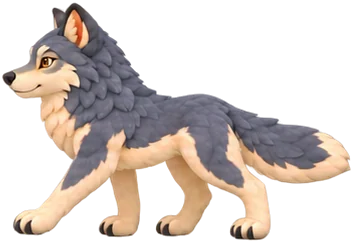
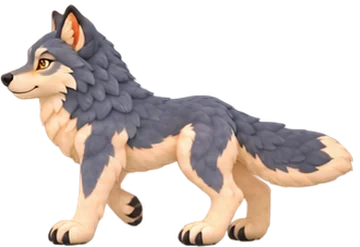
style: плавный шаг волка и читаемый текст на закате (HZ-02b)
- Волк шагает циклом из 6 кадров, кадры выровнены по носу и лапам;
  прыжок на скалу и обратно — отдельная поза.
- Цвет текста и подписей кнопок при смене темы переключается быстро около
  середины перехода: надписи больше не сливаются с фоном посреди заката.

Changed region(s): [[0.0, 0.0, 0.9972, 1.0], [0.8725, 0.6626, 0.9037, 0.6914]]

diff --git a/apps/mobile/src/features/onboarding/world/Wolf.tsx b/apps/mobile/src/features/onboarding/world/Wolf.tsx
@@ -39,11 +39,22 @@ export function wolfStage(width: number, groundY: number) {
   };
 }
 
-// NOTE: Коды поз для расчётов на UI-потоке: 0 идёт, 1 сидит, 2 воет, 3 спит.
+// NOTE: Коды поз для расчётов на UI-потоке: 0 идёт, 1 сидит, 2 воет, 3 спит, 4 прыгает.
 const WALK = 0;
 const SIT = 1;
 const HOWL = 2;
 const SLEEP = 3;
+const JUMP = 4;
+// NOTE: Цикл шага из 6 кадров; 9 кадров в секунду — спокойный шаг, без мельтешения.
+const WALK_FRAMES = [
+  art.wolfWalk0,
+  art.wolfWalk1,
+  art.wolfWalk2,
+  art.wolfWalk3,
+  art.wolfWalk4,
+  art.wolfWalk5,
+] as const;
+const WALK_FPS = 9;
 
 interface Step {
   readonly pose: number;
@@ -63,13 +74,13 @@ interface Step {
  */
 const STORY: readonly Step[] = [
   { pose: WALK, ms: 3800, to: 'base', fade: 'in' },
-  { pose: WALK, ms: 650, to: 'top', jump: true },
+  { pose: JUMP, ms: 650, to: 'top', jump: true },
   { pose: SIT, ms: 2600 },
   { pose: HOWL, ms: 3400, howl: true },
   { pose: SIT, ms: 1700 },
   { pose: SLEEP, ms: 9500 },
   { pose: SIT, ms: 1900 },
-  { pose: WALK, ms: 650, to: 'base', jump: true, facingRight: true },
+  { pose: JUMP, ms: 650, to: 'base', jump: true, facingRight: true },
   { pose: WALK, ms: 4200, to: 'exit', fade: 'out', facingRight: true },
   { pose: SIT, ms: 7000, fade: 'out' },
 ];
@@ -160,7 +171,7 @@ export function Wolf() {
     howl,
   ]);
 
-  const scale = stage.wolfHeight / art.wolfWalk1.height;
+  const scale = stage.wolfHeight / art.wolfWalk0.height;
   const containerStyle = useAnimatedStyle(() => {
     const walking = pose.value === WALK;
     const bob = walking ? -Math.abs(Math.sin(time.value * 9)) * stage.wolfHeight * 0.03 : 0;
@@ -171,8 +182,10 @@ export function Wolf() {
   });
   return (
     <Animated.View pointerEvents="none" testID="world-wolf" style={[styles.anchor, containerStyle]}>
-      <PoseSprite image={art.wolfWalk1} scale={scale} pose={pose} code={WALK} frame={0} />
-      <PoseSprite image={art.wolfWalk2} scale={scale} pose={pose} code={WALK} frame={1} />
+      {WALK_FRAMES.map((image, frame) => (
+        <PoseSprite key={frame} image={image} scale={scale} pose={pose} code={WALK} frame={frame} />
+      ))}
+      <PoseSprite image={art.wolfJump} scale={scale} pose={pose} code={JUMP} />
       <PoseSprite image={art.wolfSit} scale={scale} pose={pose} code={SIT} />
       <PoseSprite image={art.wolfHowl} scale={scale} pose={pose} code={HOWL} />
       <PoseSprite image={art.wolfSleep} scale={scale} pose={pose} code={SLEEP} />
@@ -199,8 +212,9 @@ function PoseSprite({
   const h = image.height * scale;
   const style = useAnimatedStyle(() => {
     let shown = pose.value === code;
-    // NOTE: Два кадра шага сменяют друг друга — получается походка.
-    if (shown && frame !== undefined) shown = Math.floor(time.value * 4.2) % 2 === frame;
+    // NOTE: Шесть кадров шага сменяют друг друга по кругу — получается плавная походка.
+    if (shown && frame !== undefined)
+      shown = Math.floor(time.value * WALK_FPS) % WALK_FRAMES.length === frame;
     // NOTE: Спящий волк медленно дышит.
     const breath = code === SLEEP ? 1 + Math.sin(time.value * 1.5) * 0.025 : 1;
     return { opacity: shown ? 1 : 0, transform: [{ scaleY: breath }] };
@@ -211,7 +225,7 @@ function PoseSprite({
       style={[
         {
           position: 'absolute',
-          left: -w / 2,
+          left: frame !== undefined ? -w * 0.42 : -w / 2,
           top: -h,
           width: w,
           height: h,

diff --git a/apps/mobile/src/features/onboarding/world/art.ts b/apps/mobile/src/features/onboarding/world/art.ts
@@ -20,8 +20,6 @@ import reeds from '../../../../assets/onboarding/reeds.webp';
 import cloud1 from '../../../../assets/onboarding/cloud_1.webp';
 import cloud2 from '../../../../assets/onboarding/cloud_2.webp';
 import cloud3 from '../../../../assets/onboarding/cloud_3.webp';
-import wolfWalk1 from '../../../../assets/onboarding/wolf_walk_1.webp';
-import wolfWalk2 from '../../../../assets/onboarding/wolf_walk_2.webp';
 import wolfSit from '../../../../assets/onboarding/wolf_sit.webp';
 import wolfHowl from '../../../../assets/onboarding/wolf_howl.webp';
 import wolfSleep from '../../../../assets/onboarding/wolf_sleep.webp';
@@ -30,6 +28,13 @@ import butterfly2 from '../../../../assets/onboarding/butterfly_2.webp';
 import leafGreen from '../../../../assets/onboarding/leaf_green.webp';
 import leafOrange from '../../../../assets/onboarding/leaf_orange.webp';
 import seed from '../../../../assets/onboarding/seed.webp';
+import wolfWalk0 from '../../../../assets/onboarding/wolf_walk_0.webp';
+import wolfWalk1 from '../../../../assets/onboarding/wolf_walk_1.webp';
+import wolfWalk2 from '../../../../assets/onboarding/wolf_walk_2.webp';
+import wolfWalk3 from '../../../../assets/onboarding/wolf_walk_3.webp';
+import wolfWalk4 from '../../../../assets/onboarding/wolf_walk_4.webp';
+import wolfWalk5 from '../../../../assets/onboarding/wolf_walk_5.webp';
+import wolfJump from '../../../../assets/onboarding/wolf_jump.webp';
 import sproutLeaves from '../../../../assets/onboarding/sprout_leaves.webp';
 import sproutMound from '../../../../assets/onboarding/sprout_mound.webp';
 import rock from '../../../../assets/onboarding/rock.webp';
@@ -56,8 +61,6 @@ export const art = {
   cloud1: { source: cloud1, width: 520, height: 208 },
   cloud2: { source: cloud2, width: 297, height: 170 },
   cloud3: { source: cloud3, width: 412, height: 255 },
-  wolfWalk1: { source: wolfWalk1, width: 353, height: 243 },
-  wolfWalk2: { source: wolfWalk2, width: 366, height: 244 },
   wolfSit: { source: wolfSit, width: 260, height: 255 },
   wolfHowl: { source: wolfHowl, width: 244, height: 258 },
   wolfSleep: { source: wolfSleep, width: 247, height: 133 },
@@ -66,6 +69,13 @@ export const art = {
   leafGreen: { source: leafGreen, width: 193, height: 134 },
   leafOrange: { source: leafOrange, width: 185, height: 158 },
   seed: { source: seed, width: 139, height: 185 },
+  wolfWalk0: { source: wolfWalk0, width: 360, height: 247 },
+  wolfWalk1: { source: wolfWalk1, width: 360, height: 247 },
+  wolfWalk2: { source: wolfWalk2, width: 360, height: 247 },
+  wolfWalk3: { source: wolfWalk3, width: 360, height: 247 },
+  wolfWalk4: { source: wolfWalk4, width: 360, height: 247 },
+  wolfWalk5: { source: wolfWalk5, width: 360, height: 247 },
+  wolfJump: { source: wolfJump, width: 389, height: 206 },
   sproutLeaves: { source: sproutLeaves, width: 983, height: 978, pivotX: 0.4832, pivotY: 0.7168 },
   sproutMound: { source: sproutMound, width: 983, height: 978 },
   rock: { source: rock, width: 1000, height: 397 },

diff --git a/apps/mobile/src/shared/ui/Button.tsx b/apps/mobile/src/shared/ui/Button.tsx
@@ -17,6 +17,7 @@ import { darkTheme, lightTheme } from '@habitzen/design/tokens';
 import { motion } from '@habitzen/design/motion';
 import { useAppPreferences } from '../../core/providers/AppPreferencesProvider';
 import { useMotionPolicy } from '../motion/useMotionPolicy';
+import { textBlend } from '../motion/themeBlend';
 
 const AnimatedPressable = Animated.createAnimatedComponent(Pressable);
 
@@ -121,7 +122,9 @@ export function Button({
       transform: [{ scale: interpolate(ripple.value, [0, 1], [0.05, 1]) }],
     };
   });
-  const nightGradientStyle = useAnimatedStyle(() => ({ opacity: night.value }));
+  // NOTE: Заливка кнопки меняется тем же быстрым переключением, что и подпись:
+  // светлый текст никогда не оказывается на светлой заливке.
+  const nightGradientStyle = useAnimatedStyle(() => ({ opacity: textBlend(night.value) }));
   const outlineStyle = useAnimatedStyle(() => ({
     borderColor: interpolateColor(
       night.value,
@@ -134,13 +137,16 @@ export function Button({
       ['rgba(255,255,255,0)', primary ? 'rgba(255,255,255,0)' : 'rgba(169,199,163,0.12)'],
     ),
   }));
-  const labelStyle = useAnimatedStyle(() => ({
-    opacity: labelOpacity.value,
-    transform: [{ translateY: (1 - labelOpacity.value) * 4 }],
-    color: primary
-      ? interpolateColor(night.value, [0, 1], ['#FFFDF3', '#172B22'])
-      : interpolateColor(night.value, [0, 1], [lightTheme.primary, darkTheme.primary]),
-  }));
+  const labelStyle = useAnimatedStyle(() => {
+    const blend = textBlend(night.value);
+    return {
+      opacity: labelOpacity.value,
+      transform: [{ translateY: (1 - labelOpacity.value) * 4 }],
+      color: primary
+        ? interpolateColor(blend, [0, 1], ['#FFFDF3', '#172B22'])
+        : interpolateColor(blend, [0, 1], [lightTheme.primary, darkTheme.primary]),
+    };
+  });
 
   return (
     <View style={styles.wrapper}>

diff --git a/apps/mobile/src/shared/motion/themeBlend.ts b/apps/mobile/src/shared/motion/themeBlend.ts
@@ -1,0 +1,13 @@
+/**
+ * Доля «ночного» цвета для текста при смене темы.
+ *
+ * NOTE: Фон темнеет плавно всю секунду. Если бы текст светлел так же плавно,
+ * в середине перехода он совпал бы с фоном по яркости и на мгновение исчез.
+ * Поэтому текст держит дневной цвет почти до середины и быстро переключается
+ * около неё: контраст остаётся читаемым в любой момент заката.
+ */
+export function textBlend(night: number): number {
+  'worklet';
+  const t = Math.min(1, Math.max(0, (night - 0.4) / 0.2));
+  return t * t * (3 - 2 * t);
+}

diff --git a/apps/mobile/src/shared/ui/ThemedText.tsx b/apps/mobile/src/shared/ui/ThemedText.tsx
@@ -3,6 +3,7 @@ import type { StyleProp, TextStyle } from 'react-native';
 import type { ReactNode } from 'react';
 import { darkTheme, lightTheme } from '@habitzen/design/tokens';
 import { useAppPreferences } from '../../core/providers/AppPreferencesProvider';
+import { textBlend } from '../motion/themeBlend';
 import { typography } from './AppText';
 import type { TextVariant } from './AppText';
 
@@ -31,7 +32,7 @@ export function ThemedText({
   const light = lightTheme[tone];
   const dark = darkTheme[tone];
   const colorStyle = useAnimatedStyle(() => ({
-    color: interpolateColor(night.value, [0, 1], [light, dark]),
+    color: interpolateColor(textBlend(night.value), [0, 1], [light, dark]),
   }));
   return (
     <Animated.Text

diff --git a/resources/design/onboarding-art/prepare_layers.py b/resources/design/onboarding-art/prepare_layers.py
@@ -33,7 +33,8 @@ SHEETS = ['vegetation_sheet', 'clouds_sheet', 'wolf_sheet', 'dandelion_sheet']
 SHEET_NAMES: dict[str, list[str]] = {
     'vegetation_sheet': ['grass_1', 'grass_2', 'grass_3', 'flowers_1', 'flowers_2', 'bush', 'reeds'],
     'clouds_sheet': ['cloud_1', 'cloud_2', 'cloud_3'],
-    'wolf_sheet': ['wolf_walk_1', 'wolf_walk_2', 'wolf_sit', 'wolf_howl', 'wolf_sleep'],
+    # NOTE: два старых кадра шага заменены циклом из 6 кадров (wolf_walk_sheet.png)
+    'wolf_sheet': ['', '', 'wolf_sit', 'wolf_howl', 'wolf_sleep'],
     'dandelion_sheet': ['butterfly_1', 'butterfly_2', 'leaf_green', 'leaf_orange', 'seed'],
 }
 # WARNING: Больше 1100 px по стороне для телефона не нужно: лишний вес и память.
@@ -170,6 +171,32 @@ def split_sprout(src: Image.Image) -> tuple[Image.Image, Image.Image, tuple[floa
             (base_x / src.width, base_y / src.height))
 
 
+WALK_HEIGHT = 243  # NOTE: высота шагающего волка из первого листа поз — масштаб всех поз
+
+
+def export_walk(save) -> None:
+    """Цикл шага: 6 кадров на общем холсте, выровненных по носу и лапам — волк не дёргается."""
+    sheet = load_rgba(RAW / 'wolf_walk_sheet.png')
+    # WARNING: промежутки между волками всего ~20 px, поэтому расширение маски меньше обычного
+    boxes = components(sheet, cell=4, grow=2)
+    if len(boxes) != 6:
+        sys.exit(f'wolf_walk_sheet: найдено {len(boxes)} кадров вместо 6')
+    crops = [trim(sheet.crop(box), pad=0) for box in boxes]
+    factor = WALK_HEIGHT / (sum(c.height for c in crops) / len(crops))
+    crops = [c.resize((round(c.width * factor), round(c.height * factor)), Image.LANCZOS) for c in crops]
+    width = max(c.width for c in crops)
+    height = max(c.height for c in crops)
+    for index, crop in enumerate(crops):
+        frame = Image.new('RGBA', (width, height), (0, 0, 0, 0))
+        # NOTE: нос — у левого края, лапы — у нижнего: так меняются только ноги и хвост
+        frame.alpha_composite(crop, (0, height - crop.height))
+        save(f'wolf_walk_{index}', frame, 'sprite')
+    jump = trim(load_rgba(RAW / 'wolf_jump.png'))
+    # NOTE: в прыжке волк вытянут: длина тела чуть больше, чем при шаге
+    jump_factor = (width * 1.08) / jump.width
+    save('wolf_jump', jump.resize((round(jump.width * jump_factor), round(jump.height * jump_factor)), Image.LANCZOS), 'sprite')
+
+
 def camel(name: str) -> str:
     head, *rest = name.split('_')
     return head + ''.join(part.capitalize() for part in rest)
@@ -206,6 +233,8 @@ def export() -> None:
             if name:
                 size = (max(1, round(crop.width * factor)), max(1, round(crop.height * factor)))
                 save(name, crop.resize(size, Image.LANCZOS), 'sprite')
+
+    export_walk(save)
 
     sprout = trim(load_rgba(APPROVED / 'Росток' / 'сырые' / '1_Front.png'))
     leaves, mound, pivot = split_sprout(sprout)
